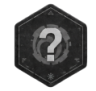
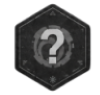
complete: complete all the hexmap umg, and finish the assamble work

diff --git a/Source/Arknight/Debug/HexMapDebug.cpp b/Source/Arknight/Debug/HexMapDebug.cpp
@@ -1,0 +1,29 @@
+// HexMapDebug.cpp
+
+#include "HexMapDebug.h"
+#include "Kismet/GameplayStatics.h"
+#include "../URougeliteRunSubsystem.h"
+#include "../HexMap/Controller/HexMapSubsystem.h"
+#include "Engine/GameInstance.h"
+
+void AHexMapDebug::BeginPlay()
+{
+	Super::BeginPlay();
+
+	UGameInstance* GI = UGameplayStatics::GetGameInstance(this);
+	if (GI)
+	{
+		if (URougeliteRunSubsystem* Subsystem = GI->GetSubsystem<URougeliteRunSubsystem>())
+		{
+			Subsystem->GlobalResource.FindOrAdd(EResourceType::AP) = initialAP;
+		}
+
+		if(UHexMapSubsystem* HexMapSubsystem = GI->GetSubsystem<UHexMapSubsystem>())
+		{
+			HexMapSubsystem->InitializeNewRun(FMath::Rand());
+			HexMapSubsystem->EnterRegion(EHexRegionType::Wood);
+			UGameplayStatics::OpenLevel(this, FName("Lvl_HexMap"));
+		}
+	}
+
+}

diff --git a/Source/Arknight/Debug/HexMapDebug.h b/Source/Arknight/Debug/HexMapDebug.h
@@ -1,0 +1,21 @@
+// HexMapDebug.h
+
+#pragma once
+
+#include "CoreMinimal.h"
+#include "GameFramework/GameModeBase.h"
+#include "HexMapDebug.generated.h"
+
+UCLASS()
+class ARKNIGHT_API AHexMapDebug : public AGameModeBase
+{
+	GENERATED_BODY()
+
+public:
+
+	UPROPERTY(EditAnywhere, BlueprintReadWrite, Category = "Debug")
+	int32 initialAP = 10;
+
+protected:
+	virtual void BeginPlay() override;
+};

diff --git a/Source/Arknight/HexMap/Controller/HexMapPlayerController.cpp b/Source/Arknight/HexMap/Controller/HexMapPlayerController.cpp
@@ -13,10 +13,6 @@ void AHexMapPlayerController::BeginPlay()
 
 	bShowMouseCursor = true;
 
-	FInputModeGameAndUI InputMode;
-	InputMode.SetHideCursorDuringCapture(false);
-	SetInputMode(InputMode);
-
 	HexMapSubsystemP = GetGameInstance() ? GetGameInstance()->GetSubsystem<UHexMapSubsystem>() : nullptr;
 	if (!HexMapSubsystemP)
 	{
@@ -29,12 +25,15 @@ void AHexMapPlayerController::BeginPlay()
 		if (MapWidgetInstance)
 		{
 			MapWidgetInstance->AddToViewport();
+			FInputModeUIOnly InputMode;
+			InputMode.SetWidgetToFocus(MapWidgetInstance->TakeWidget());
+			SetInputMode(InputMode);
 		}
 	}
 	else
 	{
 		UE_LOG(LogTemp, Warning, TEXT("HexMapPlayerController has no MapWidgetClass assigned."));
-	}
+	}	
 }
 
 void AHexMapPlayerController::HandleNodeClicked(FIntVector2 Coordinate)

diff --git a/Source/Arknight/BattleMap/UI/SettlementWidget.cpp b/Source/Arknight/BattleMap/UI/SettlementWidget.cpp
@@ -86,7 +86,7 @@ void USettlementWidget::OnConfirmClicked()
 		if (HexMap->GetCurrentAP() > 3)
 		{
 			HexMap->ChangeCurrentAP(-3);
-			UGameplayStatics::OpenLevel(this, TEXT("HexMap"));
+			UGameplayStatics::OpenLevel(this, TEXT("Lvl_HexMap"));
 		}
 		else
 		{
@@ -96,6 +96,6 @@ void USettlementWidget::OnConfirmClicked()
 	}
 	else
 	{
-		UGameplayStatics::OpenLevel(this, TEXT("HexMap"));
+		UGameplayStatics::OpenLevel(this, TEXT("Lvl_HexMap"));
 	}
 }

diff --git a/Source/Arknight/URougeliteRunSubsystem.cpp b/Source/Arknight/URougeliteRunSubsystem.cpp
@@ -40,7 +40,7 @@ void URougeliteRunSubsystem::LoadGame()
 		UE_LOG(LogTemp, Warning, TEXT("no save found, create new"));
 	}
 
-	GlobaleResource = CurrentSaveGame ? CurrentSaveGame->GlobalResources : TMap<EResourceType, int32>();
+	GlobalResource = CurrentSaveGame ? CurrentSaveGame->GlobalResources : TMap<EResourceType, int32>();
 }
 
 void URougeliteRunSubsystem::SaveGame()
@@ -161,7 +161,7 @@ void URougeliteRunSubsystem::AddResource(EResourceType Type, int32 Amount)
 	}
 
 	CurrentSaveGame->GlobalResources.FindOrAdd(Type) += Amount;
-	GlobaleResource.FindOrAdd(Type) += Amount;
+	GlobalResource.FindOrAdd(Type) += Amount;
 }
 
 void URougeliteRunSubsystem::AddGameResource(EResourceType Type, int32 Amount)

diff --git a/Source/Arknight/DS.h b/Source/Arknight/DS.h
@@ -241,7 +241,7 @@ struct FIconImageRow : public FTableRowBase
 	GENERATED_BODY()
 public:
 	UPROPERTY(EditAnywhere, BlueprintReadOnly, Category = "Icon Config")
-	FName ResourceType = NAME_None;
+	FName IconName = NAME_None;
 
 	UPROPERTY(EditAnywhere, BlueprintReadOnly, Category = "Icon Config")
 	TSoftObjectPtr<UTexture2D> IconTexture = nullptr;

diff --git a/Source/Arknight/HexMap/Controller/HexMapSubsystem.cpp b/Source/Arknight/HexMap/Controller/HexMapSubsystem.cpp
@@ -41,7 +41,7 @@ void UHexMapSubsystem::InitializeNewRun(int32 Seed)
 	if (URougeliteRunSubsystem* Run = GetGameInstance()->GetSubsystem<URougeliteRunSubsystem>())
 	{
 		CurrentGameResources.Add(EResourceType::AP,
-			Run->GlobaleResource.FindRef(EResourceType::AP));
+			Run->GlobalResource.FindRef(EResourceType::AP));
 	}
 
 	GenerateRegionNodes(EHexRegionType::Wood);

diff --git a/Source/Arknight/URougeliteRunSubsystem.h b/Source/Arknight/URougeliteRunSubsystem.h
@@ -31,7 +31,7 @@ public:
 	TArray<FOperatorRosterData> GlobalRoster;
 
 	UPROPERTY(VisibleAnywhere, BlueprintReadOnly, Category = "MetaProgression")
-	TMap<EResourceType, int32> GlobaleResource;
+	TMap<EResourceType, int32> GlobalResource;
 
 	UPROPERTY(VisibleAnywhere, BlueprintReadOnly, Category = "System|Subsystems")
 	UHexMapSubsystem* MapManager = nullptr;